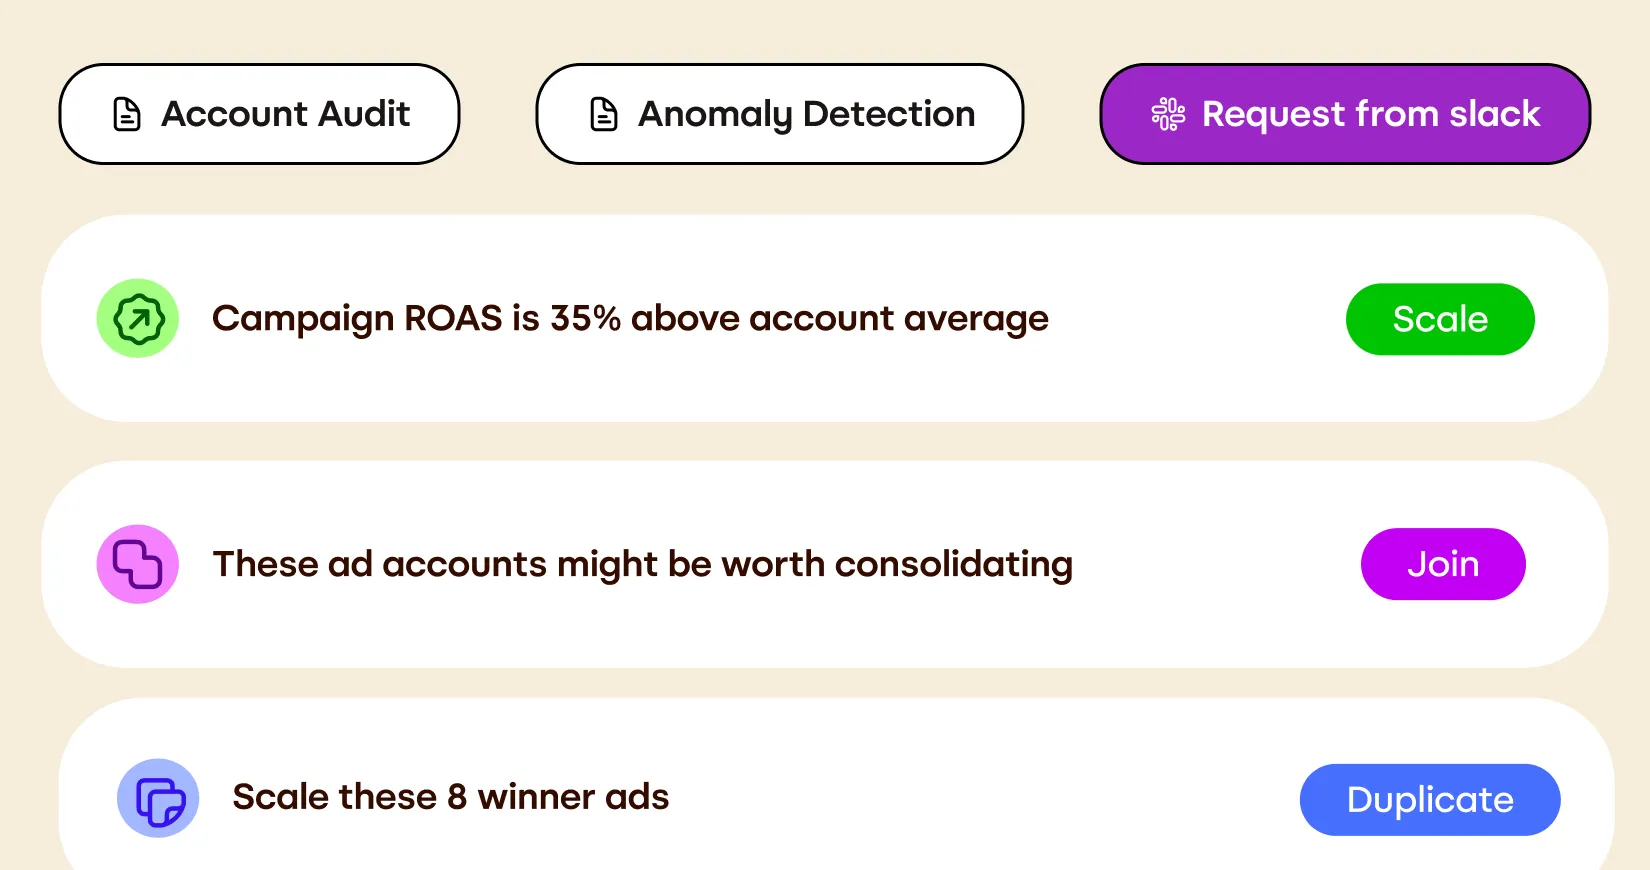
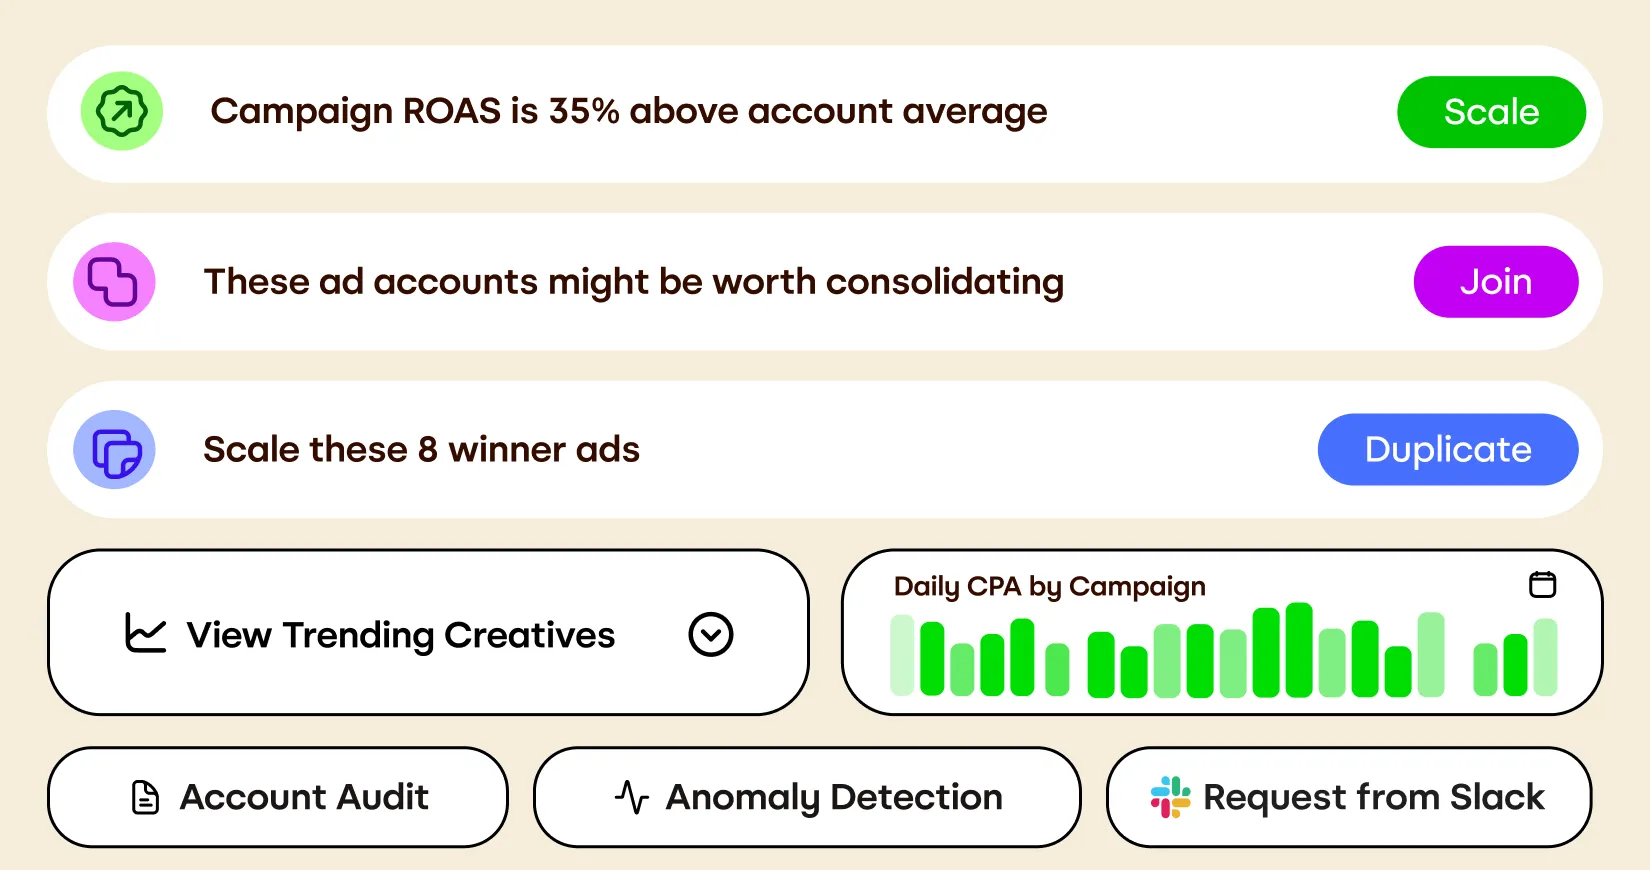
analytics onboarding img update

diff --git a/src/components/settings/analytics/RecommendationCards.jsx b/src/components/settings/analytics/RecommendationCards.jsx
@@ -884,7 +884,7 @@ export default function RecommendationCards({
                     {loading ? (
                         <Card className="rounded-2xl">
                             <CardContent className="py-10">
-                                <HelixLoader color="#3b82f6" size="36" label="Generating recommendations can take about 10 seconds..." />
+                                <HelixLoader color="#3b82f6" size="36" label="Generating recommendations can take about 20 seconds..." />
                             </CardContent>
                         </Card>
                     ) : (